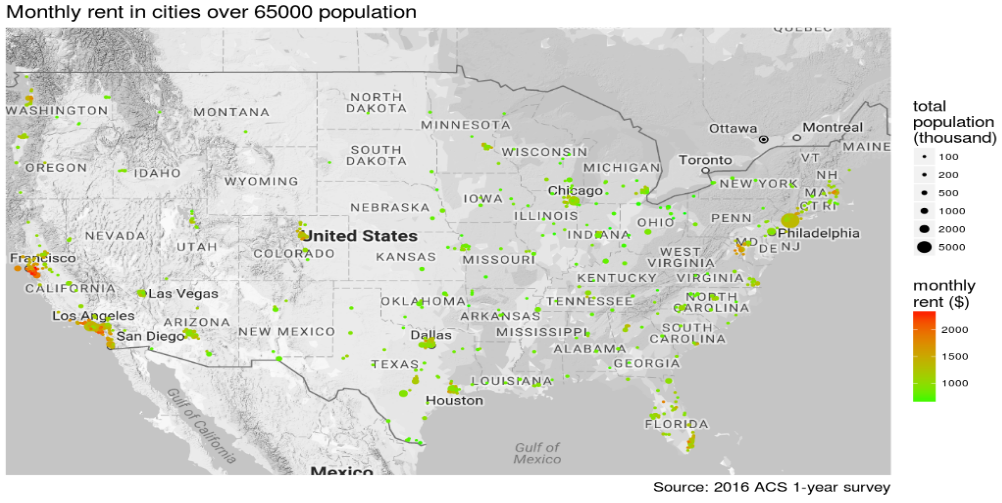
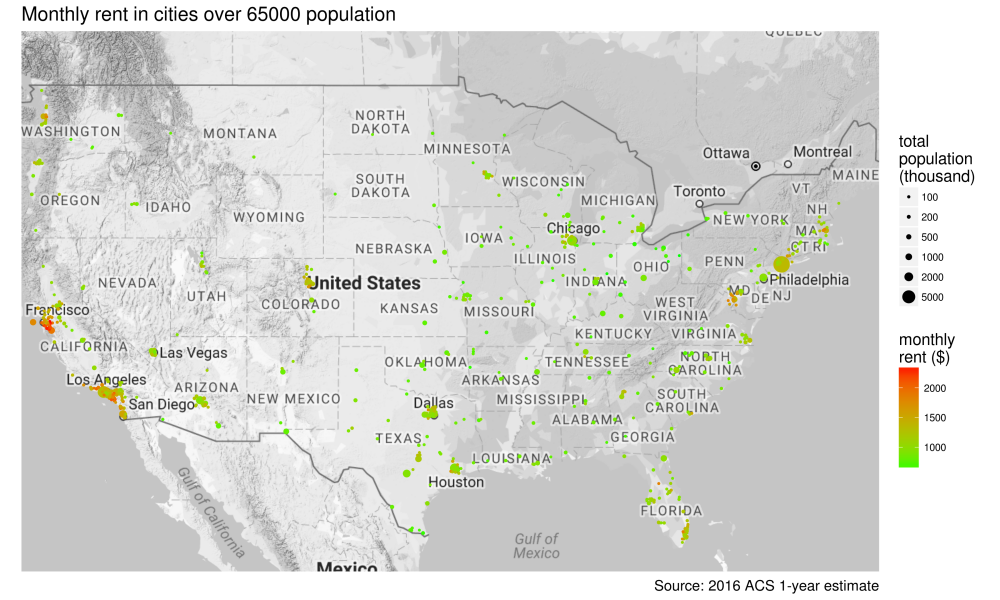
update readme

diff --git a/README.md b/README.md
@@ -1,10 +1,10 @@
 <!-- README.md is generated from README.Rmd. Please edit that file -->
 [![Build Status](https://travis-ci.org/GL-Li/totalcensus.svg?branch=master)](https://travis-ci.org/GL-Li/totalcensus)
 
-Extract data from summary files of Decennial Census and American Community Survey
-=================================================================================
+Extract High Resolution Census Data
+===================================
 
-The `totalcensus` package extracts any data available in the raw summary files of decennial census and American Community Survey (ACS) and returns a tidy data.table that can be easily processed with `data.table` or `dplyr` packages.
+Download summary files from [Census Bureau](https://www2.census.gov/) and extract data, in particular high resolution data at block, block group, and tract level, from decennial censuses and American Community Survey 1-year and 5-year estimates.
 
 Update
 ------
@@ -15,14 +15,33 @@ Update
 download_generated_data()
 ```
 
+Installation and setup
+----------------------
+
+### Installation
+
+``` r
+install.packages("devtools")
+
+devtools::install_github("GL-Li/totalcensus")
+```
+
+### Setup
+
+This package requires downloading census data and you need to create a folder to store the downloaded data. Let's call the folder `my_census_data` and assume the full path to this folder is `xxxxx/my_census_data`. Run the function below to set the path for the package.
+
+``` r
+set_path_to_census("xxxxx/my_census_data")
+```
+
 Why another R census package
 ----------------------------
 
-The [census API](https://www.census.gov/data/developers/guidance/api-user-guide.Available_Data.html) offers most data in decennial census and ACS data for download and API-based packages such as `tidycensus`, `censusapi` and `acs` make the downloading very convenient in R. So why we need another package?
+The [census API](https://www.census.gov/data/developers/guidance/api-user-guide.Available_Data.html) offers most data in decennial censuses and ACS estimates for download and API-based packages such as `tidycensus`, `censusapi` and `acs` make the downloading very convenient in R. So why we need another package?
 
-Package `totalcensus` makes census data extraction easier and gives you full access and control of all census data downloaded to you own computer. It is particularly convenient to extract higher spatial resolution data at census tract, block group, and block level.
+The major benefit of using package `totalcensus` is that it makes census data extraction more flexible and gives you full access and control of all census data downloaded to you own computer. It is particularly convenient to extract high resolution data at census tract, block group, and block level.
 
-As an extreme example, here is how we extract the median home values in **all** block groups in the United States from 2011-2015 ACS 5-year survey with this package. You simply need to call the function `read_acs5year()`. It takes 15 seconds for my 4-years old laptop to return the data of all 217,739 block groups. In addition to the table contents we request, we also get the population and coordinate of each block group.
+Here is an example of how we extract the median home values in **all** block groups in the United States from 2011-2015 ACS 5-year survey with this package. You simply need to call the function `read_acs5year()`. It takes 15 seconds for my 4-years old laptop to return the data of all 217,739 block groups. In addition to the table contents we request, we also get the population and coordinate of each block group.
 
 ``` r
 library(totalcensus)
@@ -61,25 +80,6 @@ More will be added in later version.
 -   [Proccess 5-digit ZIP Code Tabulation Area (ZCTA5) data with totalcensus package](https://gl-li.netlify.com/2017/12/23/census_data_zip_code/): an application example.
 -   [Using totalcensus package to determine relationship between census geographic entities](https://gl-li.netlify.com/2017/12/28/use-totalcensus-package-to-determine-relationship-between-geographic-entities/); an application example.
 
-Installation and setup
-----------------------
-
-### Installation
-
-``` r
-install.packages("devtools")
-
-devtools::install_github("GL-Li/totalcensus")
-```
-
-### Setup
-
-This package requires downloading census data and you need to create a folder to store the downloaded data. Let's call the folder `my_census_data` and assume the full path to this folder is `xxxxx/my_census_data`. Run the function below to set the path for the package.
-
-``` r
-set_path_to_census("xxxxx/my_census_data", install = TRUE)
-```
-
 Basic application
 -----------------
 
@@ -87,13 +87,13 @@ The package has three functions to read decennial census, ACS 5-year survey, and
 
 The function arguments serve as filters to select the data you want:
 
--   year: the year or ending year of the decennial census or ACS survey.
+-   year: the year or ending year of the decennial census or ACS estimate.
 -   states: the states of which you want read geography and data files. In addition to 50 states and "DC", you can choose from "PR" (Puerto Rico), plus a special one "US" for national files.
 -   table\_contents: this parameter specifies which table contents you want to read. Population is always returned even if table\_contents is NULL. Users can name the table contents in the format such as `c("male = B01001_002", "female = B01001_026")`.
 -   areas: if you know which metropolitan areas, counties, cities and towns you want to get data from, you can specify them here by name or FIPS code, for example, `c("New York metro", "PLACE = UT62360", "Salt Lake City city, UT")`.
 -   geo\_headers: In case you do not know which areas to extract data, you can read all the geographic headers specified here and select areas after reading.
 -   summary\_level: it determines which summary level data to extract. Common ones like "state", "county", "place", "county subdivision", "tract", "block group", and "block" can be input as plain text. Others have to be given by code.
--   geo\_comp: specifies data of which geographic component you want. Most common ones are "all", "urban", "urbanized area", "urban cluster", and "rural". Others are provided by code.
+-   geo\_comp: specifies data of which geographic component you want. Most common ones are "total", "urban", "urbanized area", "urban cluster", and "rural". Others are provided by code.
 
 There are a family of `search_xxx()` functions to help find table contents, geoheaders, summary levels, geocomponents, FIPS codes and CBSA codes.
 
@@ -103,35 +103,34 @@ The following examples demonstrate how to use these `read_xxx()` and `search_xxx
 
 A property management company wants to know the most recent rents in major cities in the US. How to get the data?
 
-We first need to determine which survey to read. For most recent survey data, we want to read 2016 ACS 1-year surveys, which provide data for geographic areas with population over 65000.
+We first need to determine which survey to read. For most recent survey data, we want to read 2016 ACS 1-year estimates, which provide data for geographic areas with population over 65000.
 
-We also need to determine which data files to read. We know summary level of cities is "160" or "place". Browsing with `search_summarylevels("acs")`, we see that this summary level is only in state files of ACS 1-year survey. So we have to read all of the state files.
+We also need to determine which data files to read. We know summary level of cities is "160" or "place". Browsing with `search_summarylevels("acs")`, we see that this summary level is only in state files of ACS 1-year estimates. So we have to read all of the state files.
 
-Then we need to check if 2016 ACS 1-year survey has the rent data. We run `search_tablecontents("acs")` to open the dataset with `View()` in RStudio. You can provide keywords to search in the function but it is better to do the search in RStudio with filters. There are so many tables that contains string "rent". It takes some time to find the right one if you are not familiar with ACS tables. After some struggle, we think B25064\_001 is what we want.
+Then we need to check if 2016 ACS 1-year estimate has the rent data. We run `search_tablecontents("acs")` to open the dataset with `View()` in RStudio. You can provide keywords to search in the function but it is better to do the search in RStudio with filters. There are so many tables that contains string "rent". It takes some time to find the right one if you are not familiar with ACS tables. After some struggle, we think B25064\_001 is what we want.
 
 We do not need to specify `areas` and `geo_headers` as we are extracting all geographic areas matches the conditions.
 
-Below is the code that gives what we want. The first time you use `read_xxx` functions to read data files, you will be asked to download summary files required for this function call, in this case, 2016 ACS 1-year summary files. Choose 1 to continue. While you can download data during calling the `read_xxx` function, I recommend downloading all data you want with `download_census` function beforehand. The downloading takes time, which can be done when you are sleeping. The details is discussed in section of [Downloading data](#downloading-data).
+Below is the code that gives what we want. The first time you use `read_xxx` functions to read data files, you will be asked to download summary files required for this function call, in this case, 2016 ACS 1-year summary files. Choose 1 to continue. While you can download data after calling a `read_xxx` function, I recommend downloading all data you want with `download_census` function beforehand. The downloading takes time, which can be done when you are sleeping. The details is discussed in section of [Downloading data](#downloading-data).
 
 ``` r
 rent <- read_acs1year(
     year = 2016,
     states = states_DC,
     table_contents = "rent = B25064_001",
-    summary_level = "place",
-    geo_comp = "all"
+    summary_level = "place"
 ) 
 
 # Fisrt 5 rows
-  #             GEOID        lon      lat state population rent GEOCOMP SUMLEV                                  NAME
-  # 1: 16000US1150000  -77.01709 38.90415    DC     681170 1376     all    160 Washington city, District of Columbia
-  # 2: 16000US2829700  -89.07184 30.41606    MS      72077  774     all    160            Gulfport city, Mississippi
-  # 3: 16000US2836000  -90.21282 32.31583    MS     169141  813     all    160             Jackson city, Mississippi
-  # 4: 16000US2205000  -91.12590 30.44845    LA     227707  818     all    160           Baton Rouge city, Louisiana
-  # 5: 16000US2208920  -93.65559 32.52366    LA      68485  959     all    160          Bossier City city, Louisiana
+      #             GEOID        lon      lat state population rent GEOCOMP SUMLEV                           NAME
+      # 1: 16000US0203000 -149.27435 61.17755    AK     298192 1296   total    160 Anchorage municipality, Alaska
+      # 2: 16000US0107000  -86.79905 33.52744    AL     213434  777   total    160       Birmingham city, Alabama
+      # 3: 16000US0121184  -85.40682 31.23370    AL      67714  720   total    160           Dothan city, Alabama
+      # 4: 16000US0135896  -86.80558 33.37695    AL      84943 1021   total    160           Hoover city, Alabama
+      # 5: 16000US0137000  -86.53900 34.78427    AL     196225  766   total    160       Huntsville city, Alabama
 ```
 
-It is always nice to visualize them on a map.
+It is always nice to visualize them on US map.
 
 ``` r
 library(ggplot2)
@@ -150,7 +149,7 @@ ggmap(us_map) +
         color = "monthly\nrent ($)",
         size = "total\npopulation\n(thousand)",
         title = "Monthly rent in cities over 65000 population",
-        caption = "Source: 2016 ACS 1-year survey"
+        caption = "Source: 2016 ACS 1-year estimate"
     ) +
     theme(
         panel.background = element_blank(),
@@ -163,13 +162,11 @@ ggmap(us_map) +
 
 ![](figures/rent_cities_population_over_65000.png)
 
-### Black communities in South Bend city, IN at census block level
+### Black communities in South Bend city, Indiana at census block level
 
-Only the decennial census has data down to block level. The most recent one is Census 2010. We will use two method to extract the data.
+Only the decennial census has data down to block level. The most recent one is Census 2010.
 
-#### Method 1: using argument `areas`
-
-Knowing names of a city, county, metro area, or town, we can feed them directly to argument `areas`. The returned data.table contains the table contents we want to read as well as population and coordinates. The reading takes a few seconds.
+Knowing names of a city, county, metro area, or town, we can feed them directly to argument `areas`. The returned data.table contains the table contents we want as well as population and coordinates. The reading takes a few seconds.
 
 ``` r
 # read data of black population in each block
@@ -190,43 +187,17 @@ black_popul <- read_decennial(
    # 5: South Bend city, IN -86.22093 41.63367    IN         42           1     all    100
 ```
 
-It is better to separate data manipulation from reading to save reading time as you usually need to try multiple manipulation. Data manipulation can be done with `data.table` or `dplyr`.
+It is better to separate data manipulation from reading to save reading time as you usually need to try multiple manipulations. Data manipulation can be done with `data.table` or `dplyr`.
 
 ``` r
+library(magrittr)
+
 # remove blocks where no people lives in and add a column of black percentage. 
 black <- black_popul %>%
     .[population != 0] %>%
     # percentage of black population in each block
     .[, black_pct := round(100 * black_popul / population, 2)]
 ```
-
-#### Method 2: use argument `geo_headers`
-
-Argument `geo_headers` works for any geographic areas presented in census geography files, such as American Indian Area/Alaska Native Area/ Hawaiian Home Land and congressional district, which are not covered by argument `areas`.
-
-Here is how we read black population in each block in South Bend city, using `geo_headers`. A city is a census place with geographic header "PLACE". We first read all block level data for all "PLACE":
-
-``` r
-black_popul_place <- read_decennial(
-    year = 2010,
-    states = "IN",
-    table_contents = "black_popul = P0030003",  
-    geo_headers = "PLACE",
-    summary_level = "block"
-)
-```
-
-We can then select rows of South Bend by the area name or by PLACE code. The PLACE code of South Bend can be searched with `search_fips("south bend")`, which is "71000".
-
-``` r
-# select by name
-black_popul <- black_popul_place[area %like% "South Bend"]
-
-# select by code
-black_popul <- black_popul_place[PLACE == "71000"]
-```
-
-#### Visualize the data
 
 Again we visualize percentage of black population on map with `ggplot2` and `ggmap`.
 
@@ -259,7 +230,7 @@ ggmap(south_bend) +
 Downloading data
 ----------------
 
-This package requires downloading census data to your local computer. You can choose to download only the data you want. For example, if you care only the 2015 ACS 5-year survey data in the states of Massachusetts and New Hampshire, you can just download data of these two states, which takes a couple of GB disc space. Or you can download data of all most recent decennial Census, most recent ACS 5-year survey, and most recent ACS 1-year survey. You need about 200 GB free disc space to download them. The downloaded data will be extracted automatically to the folder `my_census_data`.
+This package requires downloading census data to your local computer. You will be asked to download data when you call `read_xxxx` functions, or you can choose to download before calling `read_xxxx` function. You can downoad only the data you want. For example, if you care only the 2015 ACS 5-year survey data in the states of Massachusetts and New Hampshire, you can just download data of these two states, which takes a couple of GB disc space. Or you can download data of all most recent decennial Census, most recent ACS 5-year estimate, and most recent ACS 1-year estimate. You need about 200 GB free disc space to download them. The downloaded data will be extracted automatically to the folder `my_census_data`.
 
 It takes a long time to download and extract. You can stop downloading any time and then resume downloading by running the function again. I recommend downloading all recent decennial and ACS data when you are sleeping. A lot of fun to play with these data. Re-run the function to repair possible mistakes during download and extraction.
 
